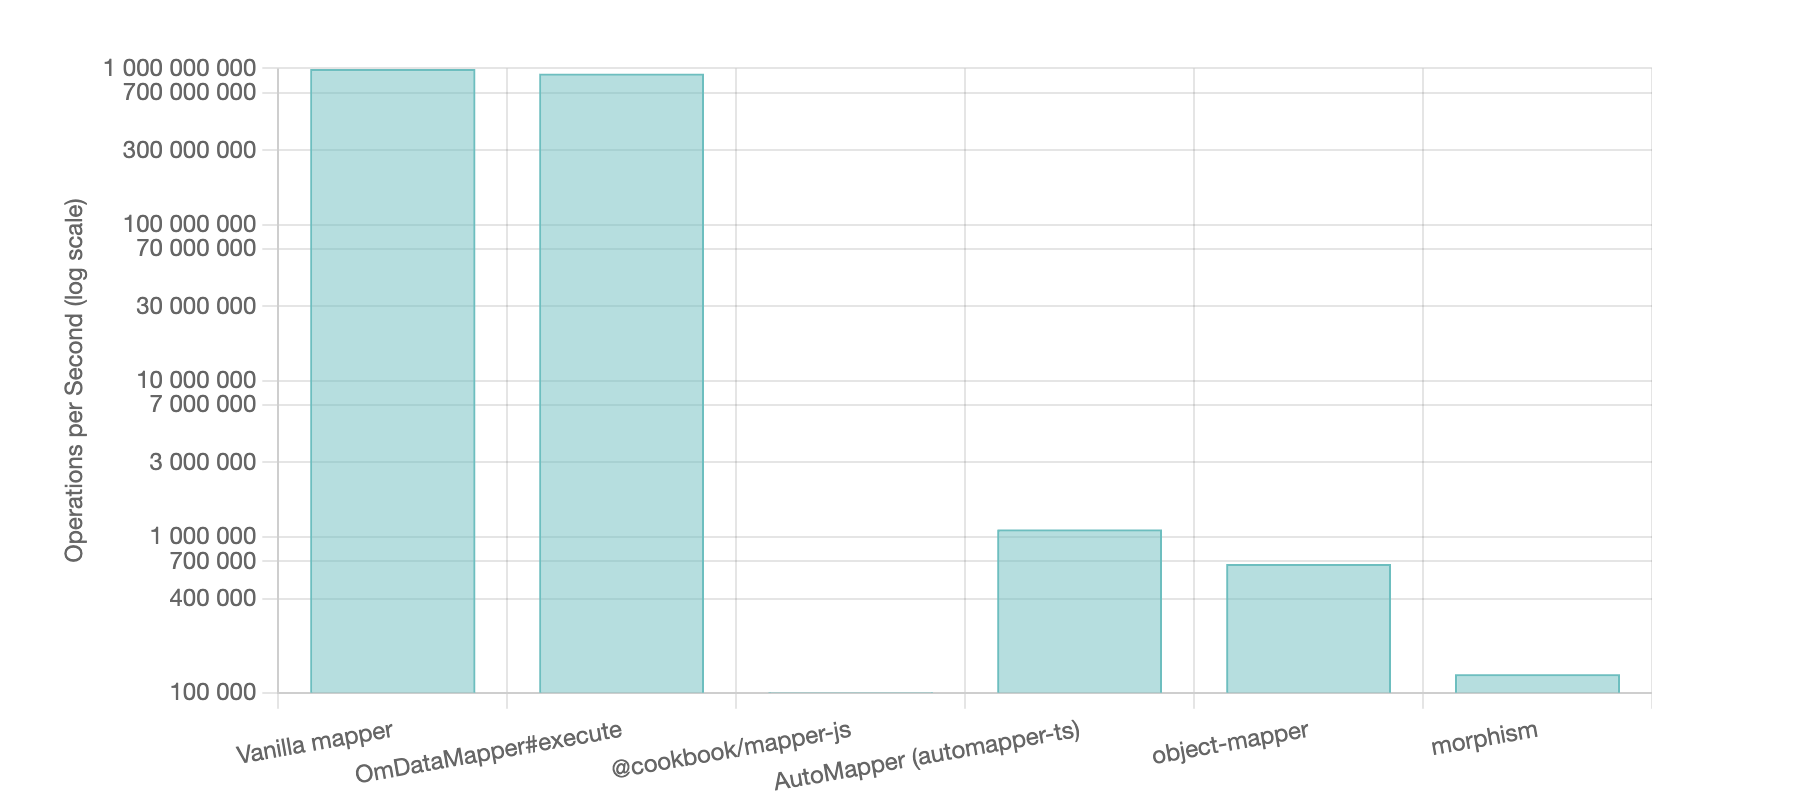
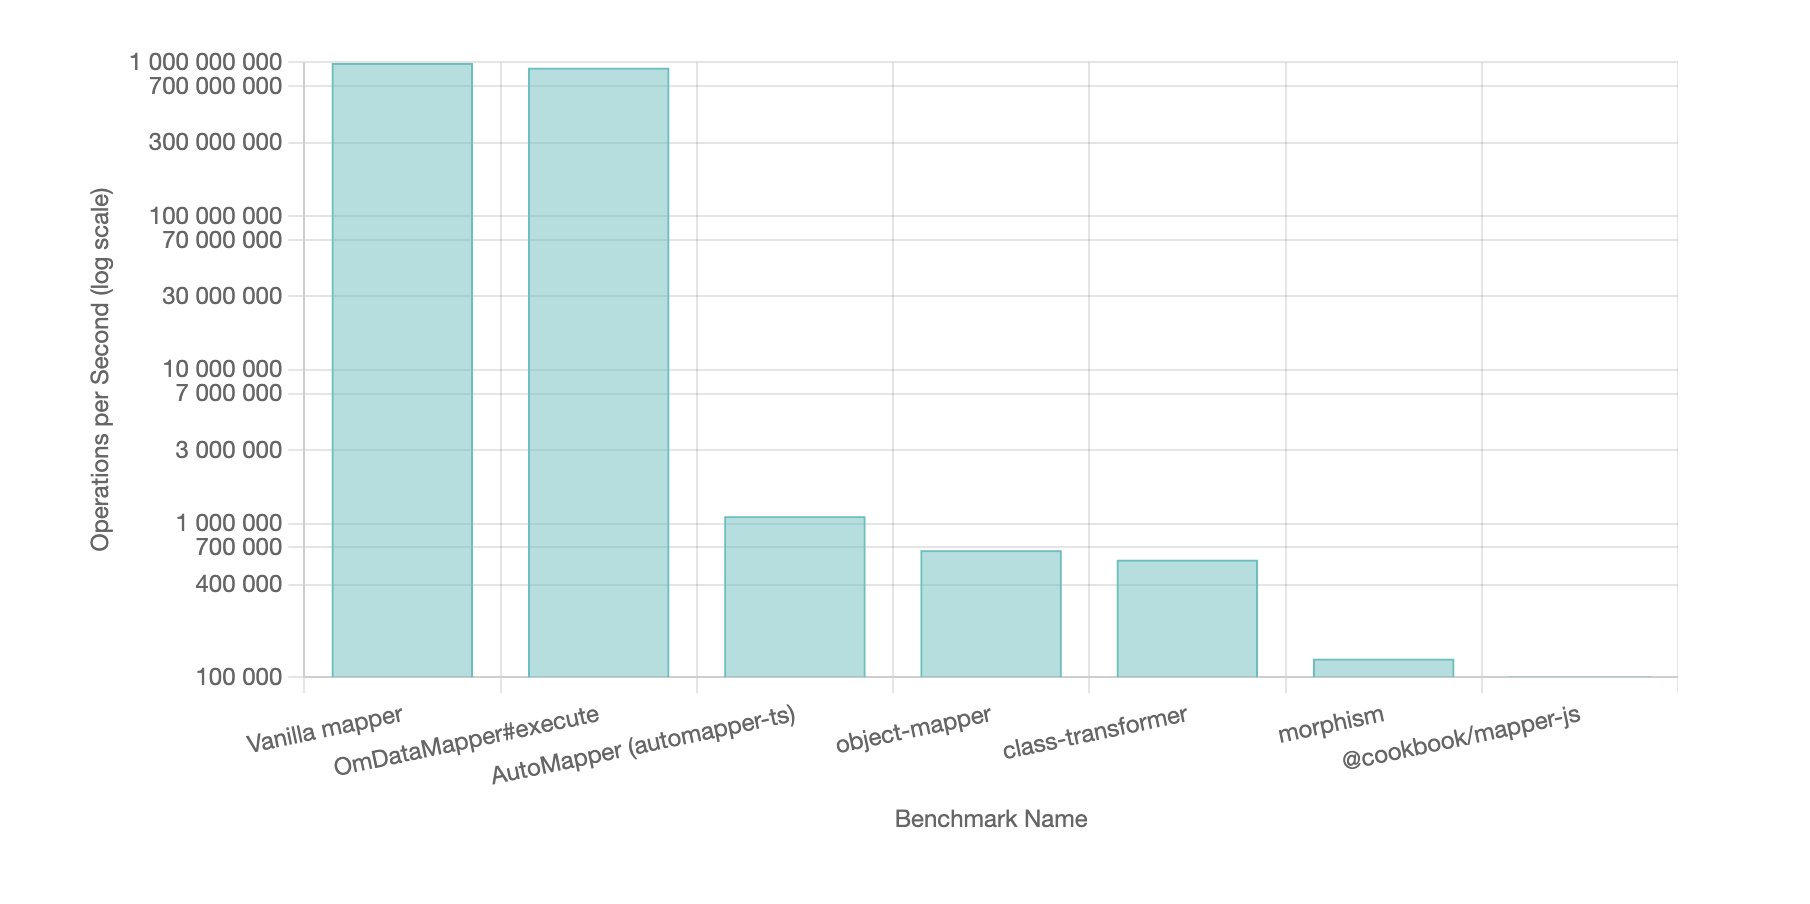
[release][2.0.5] update Readme.md

diff --git a/benchmarks/compare/compare-benchmark.ts b/benchmarks/compare/compare-benchmark.ts
@@ -5,6 +5,7 @@ import mapperJs from "@cookbook/mapper-js"; // @cookbook/mapper-js
 import "automapper-ts"; // Loedeman’s AutoMapper (global `automapper`)
 import objectMapper from "object-mapper"; // object-mapper
 import createTransformer from "morphism"; // morphism
+import { plainToClass, Transform } from "class-transformer";
 
 // 1) Define Source and Target interfaces
 interface Source {
@@ -32,6 +33,20 @@ const sourceData: Source = {
     address: "123 Main St",
   },
 };
+
+class TargetCT {
+  @Transform(({ obj }) => obj.id, { toClassOnly: true })
+  userId: number | undefined;
+
+  @Transform(({ obj }) => obj.name, { toClassOnly: true })
+  fullName: string | undefined;
+
+  @Transform(({ obj }) => obj.details.age, { toClassOnly: true })
+  age: number | undefined;
+
+  @Transform(({ obj }) => obj.details.address, { toClassOnly: true })
+  location: string | undefined;
+}
 
 // ----------------------
 // 3) OmDataMapper setup
@@ -101,27 +116,12 @@ function vanillaMapper(source: Source): Target {
 // -------------------------------------------
 const suite = new Suite();
 
-console.log(omMapper.execute(sourceData).result);
-// @ts-ignore: mappingJs may not have perfect typings
-// console.log(mappingJs(sourceData));
-console.log(automapper.map("Source", "Target", sourceData));
-// console.log(objectMapper.merge(sourceData, objMapSpec));
-// console.log(
-//   createTransformer(
-//     {
-//       userId: "id",
-//       fullName: "name",
-//       age: "details.age",
-//       location: "details.address",
-//     },
-//     sourceData,
-//   ),
-// );
-// console.log(vanillaMapper(sourceData));
-
 suite
   .add("OmDataMapper#execute", function () {
     omMapper.execute(sourceData);
+  })
+  .add("class-transformer", function () {
+    plainToClass(TargetCT, sourceData);
   })
   .add("@cookbook/mapper-js", function () {
     // @ts-ignore: mappingJs may not have perfect typings

diff --git a/benchmarks/compare/benchmark.html b/benchmarks/compare/benchmark.html
@@ -44,12 +44,6 @@
       "sampleCount": 95
     },
     {
-      "name": "@cookbook/mapper-js",
-      "hz": 101011.9751284148,
-      "rme": 5.741735381038488,
-      "sampleCount": 85
-    },
-    {
       "name": "AutoMapper (automapper-ts)",
       "hz": 1114002.8087246013,
       "rme": 4.243253978536496,
@@ -62,11 +56,23 @@
       "sampleCount": 90
     },
     {
+      "name": "class-transformer",
+      "hz": 581355.2921841773,
+      "rme": 5.656273751483694,
+      "sampleCount": 87
+    },
+    {
       "name": "morphism",
       "hz": 131666.42534097852,
       "rme": 4.014952285590102,
       "sampleCount": 95
-    }
+    },
+    {
+      "name": "@cookbook/mapper-js",
+      "hz": 101011.9751284148,
+      "rme": 5.741735381038488,
+      "sampleCount": 85
+    },
   ];
 
   const labels = data.map((item) => item.name);

diff --git a/Readme.md b/Readme.md
@@ -56,7 +56,7 @@ const target = mapper.execute(sourceObject);
 Mapping with composition allows combining multiple mappers to create complex data transformations.
 
 ```ts
-const addressMapper = new AddressMapper<Address, TargetAddress>({
+const addressMapper = AddressMapper.create<Address, TargetAddress>({
   fullAddress: (address) => `${address.city}, ${address.street}, ${address.appartment}`
 })
 const mapper = UserMapper.create<User, TargetUser>({
@@ -187,7 +187,7 @@ console.log(dto);
 You can can pass config to mapper `{ useUnsafe: true }` then all try/catch will be removed from compile mapper function
 
 ```typescript
-new Mapper(mappingConfig, defaultValues, { useUnsafe: true });
+Mapper.create(mappingConfig, defaultValues, { useUnsafe: true });
 ```
 
 this will greatly improve performance, but errors inside the conversion will not be intercepted.
